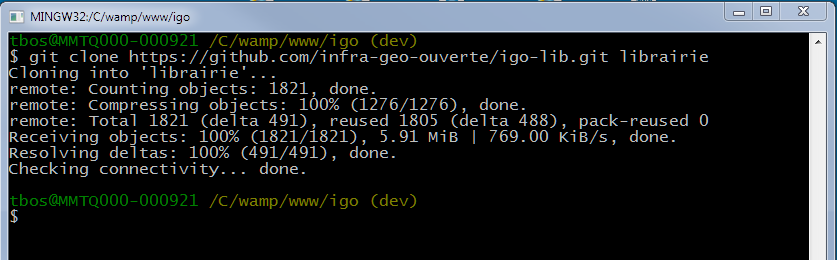
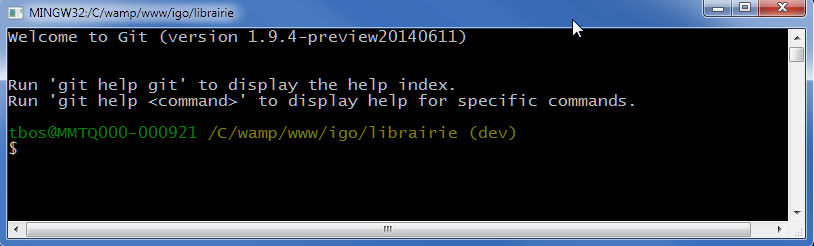
Correction installation windows checkout dev pour librairie

diff --git a/doc/installation/InstallationDeveloppementIGOWindows.md b/doc/installation/InstallationDeveloppementIGOWindows.md
@@ -86,8 +86,8 @@ apache.
 
 ~~~~~~~~~~~~~~~~~~~~~~~~~~~~~~~~~~~~~~~~~~~~~~~~~~~~~~~~~~~~~~~~~~~~~~~~~~~~~~~~
     Alias /api "C:/wamp/www/igo/interfaces/navigateur/api"
-	Alias /librairie "C:/wamp/www/igo/librairie"    
-	Alias /pilotage "C:/wamp/www/igo/pilotage"
+    Alias /librairie "C:/wamp/www/igo/librairie"    
+    Alias /pilotage "C:/wamp/www/igo/pilotage"
     Alias /navigateur "C:/wamp/www/igo/interfaces/navigateur"
      
      <Directory "C:/wamp/www/igo/interfaces/navigateur/api">
@@ -97,25 +97,25 @@ apache.
           RewriteRule ^(.*)$ index.php?_url=/$1 [QSA,L]
         </IfModule>
      </Directory>
-	 
+     
   
     <Directory C:/wamp/www/igo/interfaces/navigateur/>
     <IfModule mod_rewrite.c>
             RewriteEngine on
             RewriteRule  ^$ public/    [L]
             RewriteRule  (.*) public/$1 [L]
-	</IfModule>
-	</Directory>
+    </IfModule>
+    </Directory>
 
-	<Directory C:/wamp/www/igo/interfaces/navigateur/public/>
-		AddDefaultCharset UTF-8
-		<IfModule mod_rewrite.c>
-			RewriteEngine On
-			RewriteCond %{REQUEST_FILENAME} !-d
-			RewriteCond %{REQUEST_FILENAME} !-f
-			RewriteRule ^(.*)$ index.php?_url=/$1 [QSA,L]
-		</IfModule>
-	</Directory>
+    <Directory C:/wamp/www/igo/interfaces/navigateur/public/>
+        AddDefaultCharset UTF-8
+        <IfModule mod_rewrite.c>
+            RewriteEngine On
+            RewriteCond %{REQUEST_FILENAME} !-d
+            RewriteCond %{REQUEST_FILENAME} !-f
+            RewriteRule ^(.*)$ index.php?_url=/$1 [QSA,L]
+        </IfModule>
+    </Directory>
     
    <Directory C:/wamp/www/igo/pilotage/>
     <IfModule mod_rewrite.c>
@@ -124,17 +124,17 @@ apache.
             RewriteRule  (.*) public/$1 [L]
     </IfModule>
     php_value max_input_vars 2000
-	</Directory>
+    </Directory>
 
-	<Directory C:/wamp/www/igo/pilotage/public/>
-		AddDefaultCharset UTF-8
-		<IfModule mod_rewrite.c>
-			RewriteEngine On
-			RewriteCond %{REQUEST_FILENAME} !-d
-			RewriteCond %{REQUEST_FILENAME} !-f
-			RewriteRule ^(.*)$ index.php?_url=/$1 [QSA,L]
-		</IfModule>
-	</Directory>
+    <Directory C:/wamp/www/igo/pilotage/public/>
+        AddDefaultCharset UTF-8
+        <IfModule mod_rewrite.c>
+            RewriteEngine On
+            RewriteCond %{REQUEST_FILENAME} !-d
+            RewriteCond %{REQUEST_FILENAME} !-f
+            RewriteRule ^(.*)$ index.php?_url=/$1 [QSA,L]
+        </IfModule>
+    </Directory>
      
  
 ~~~~~~~~~~~~~~~~~~~~~~~~~~~~~~~~~~~~~~~~~~~~~~~~~~~~~~~~~~~~~~~~~~~~~~~~~~~~~~~~
@@ -353,12 +353,9 @@ git clone https://github.com/infra-geo-ouverte/igo.git
 
 ![](<MarkdownImage/image48.png>)
 
-Faire la ligne commande suivante et vérifier que c’est le code de la branche de
-« dev » et non « master » entre parenthèses :
+ 
 
-~~~~~~~~~~~~~~~~~~~~~~~~~~~~~~~~~~~~~~~~~~~~~~~~~~~~~~~~~~~~~~~~~~~~~~~~~~~~~~~~
-cd igo
-~~~~~~~~~~~~~~~~~~~~~~~~~~~~~~~~~~~~~~~~~~~~~~~~~~~~~~~~~~~~~~~~~~~~~~~~~~~~~~~~
+ 
 
 ![](<MarkdownImage/image49.png>)
 
@@ -384,6 +381,15 @@ git clone https://github.com/infra-geo-ouverte/igo-lib.git librairie
 ~~~~~~~~~~~~~~~~~~~~~~~~~~~~~~~~~~~~~~~~~~~~~~~~~~~~~~~~~~~~~~~~~~~~~~~~~~~~~~~~
 
 ![](<MarkdownImage/image51.png>)
+
+Faire la ligne commande suivante et vérifier que c’est le code de la branche de
+« dev » et non « master » entre parenthèses :
+
+~~~~~~~~~~~~~~~~~~~~~~~~~~~~~~~~~~~~~~~~~~~~~~~~~~~~~~~~~~~~~~~~~~~~~~~~~~~~~~~~
+cd librairie
+git checkout dev
+
+~~~~~~~~~~~~~~~~~~~~~~~~~~~~~~~~~~~~~~~~~~~~~~~~~~~~~~~~~~~~~~~~~~~~~~~~~~~~~~~~
 
 Configuration du projet navigateur
 ----------------------------------
